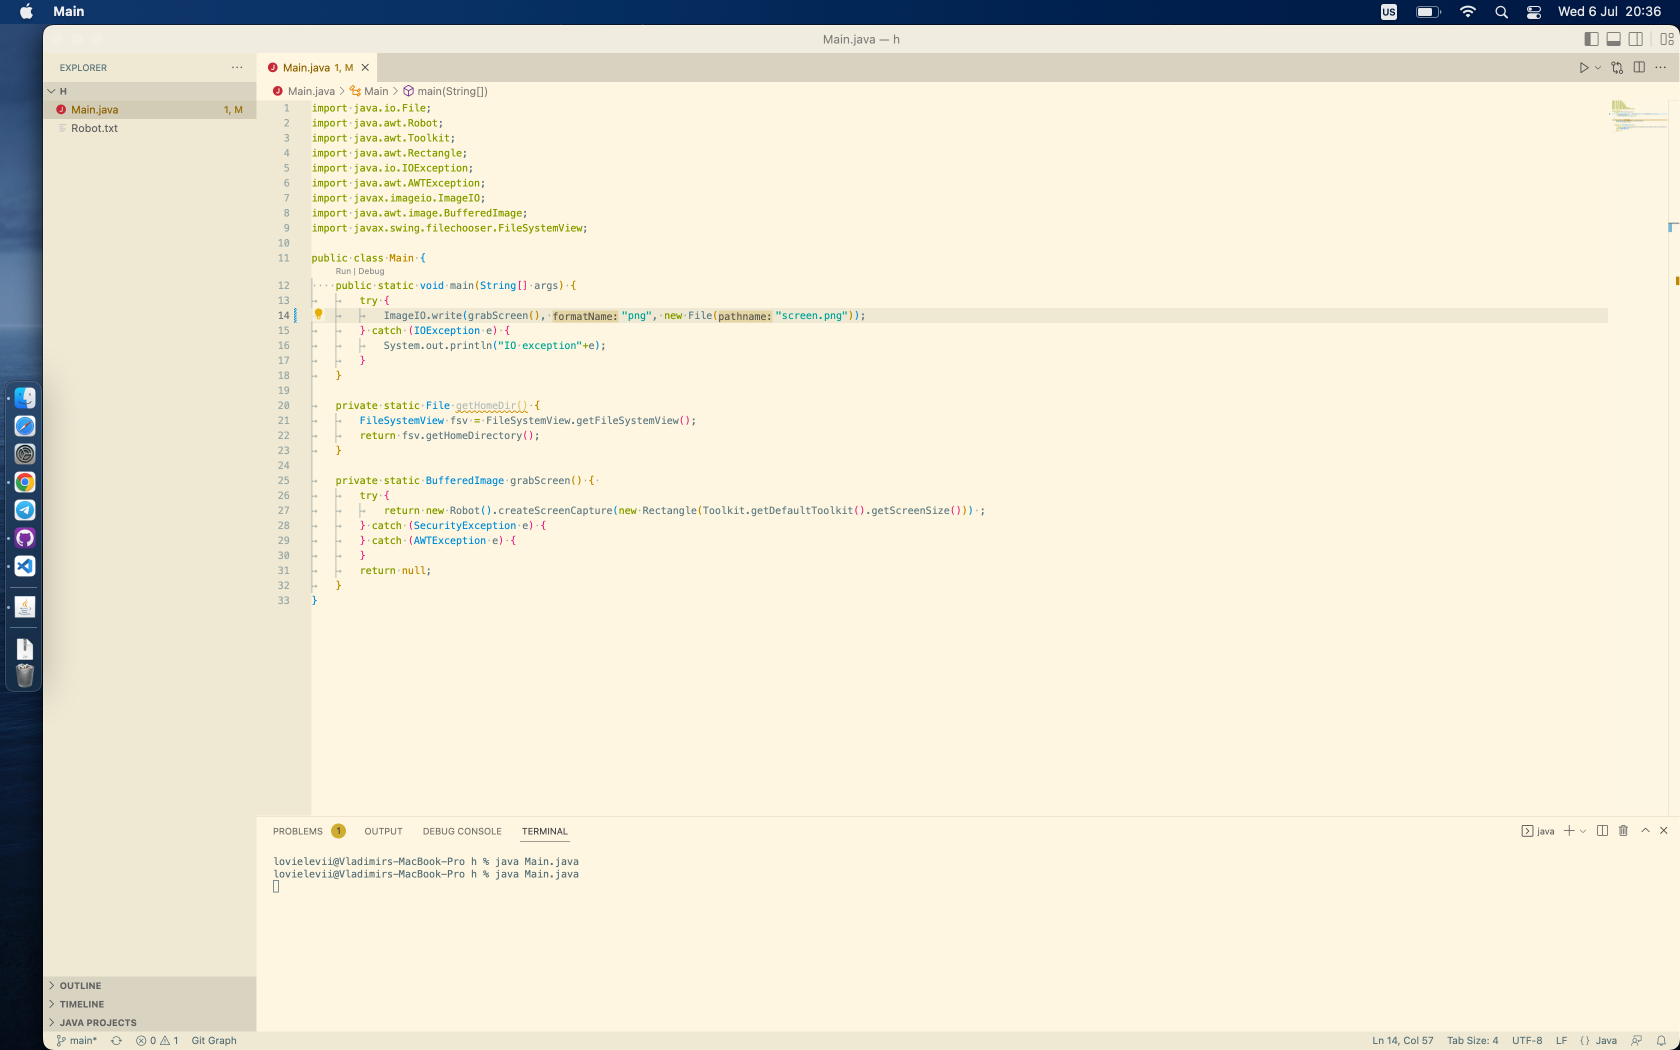
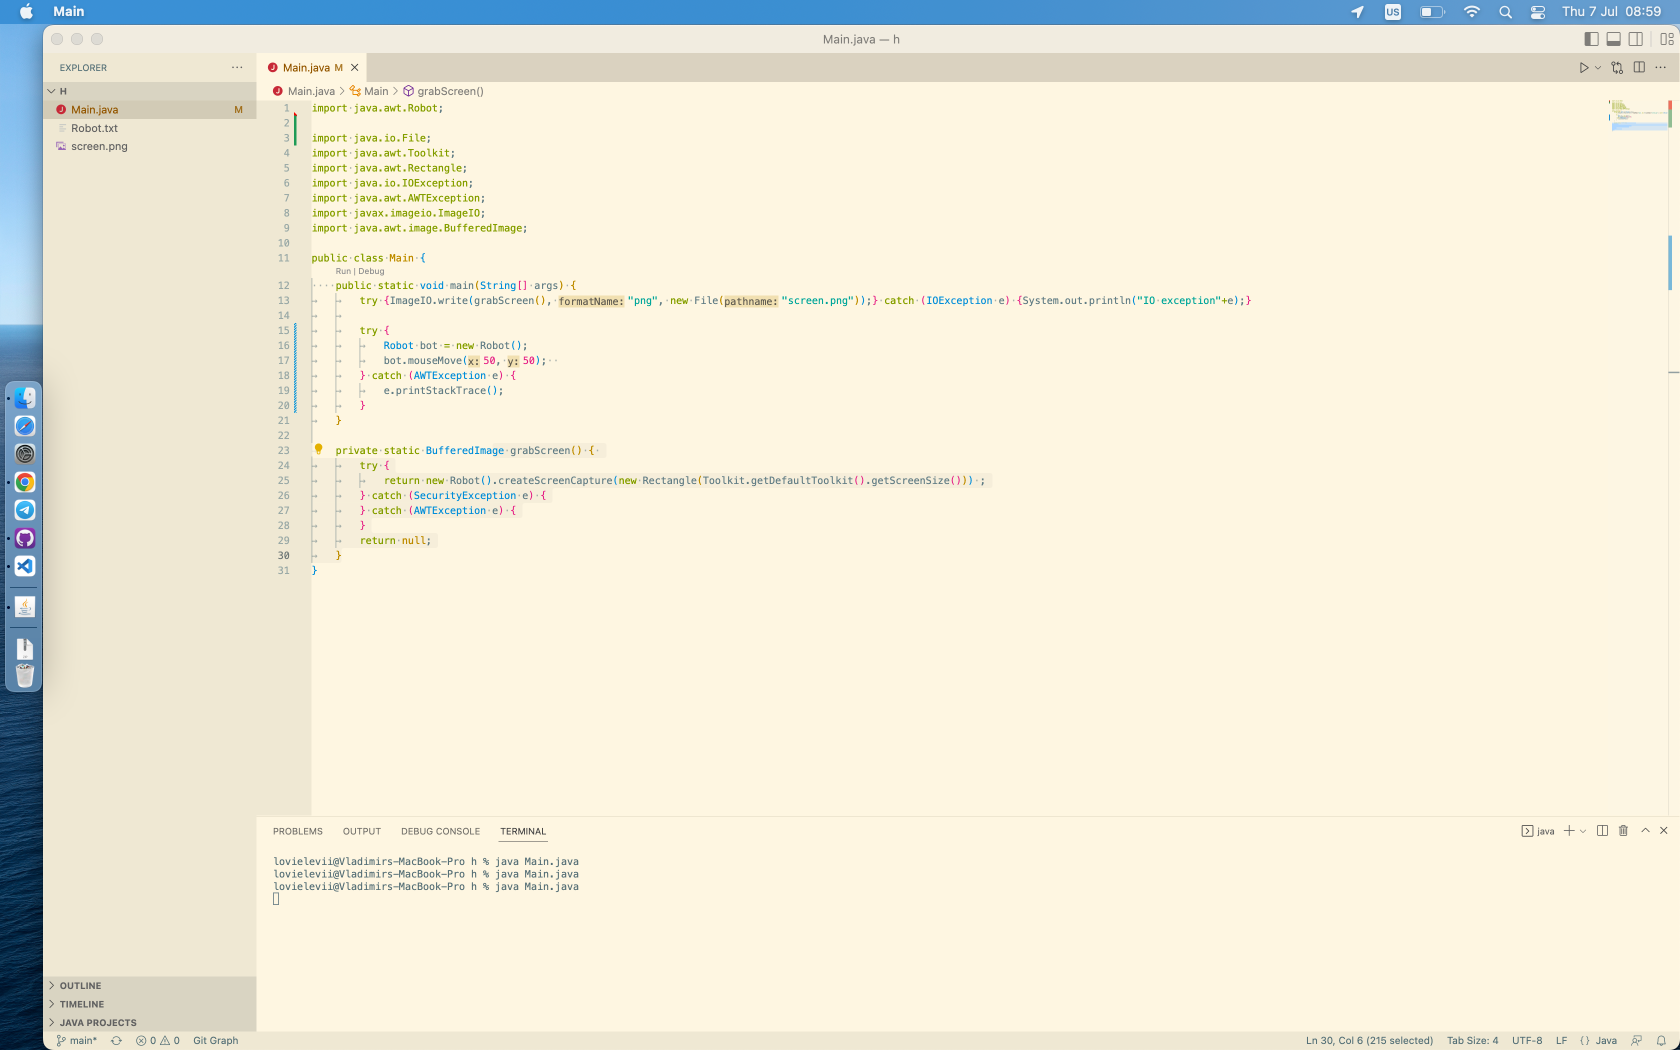
add

diff --git a/Main.java b/Main.java
@@ -1,5 +1,6 @@
-import java.io.File;
 import java.awt.Robot;
+
+import java.io.File;
 import java.awt.Toolkit;
 import java.awt.Rectangle;
 import java.io.IOException;
@@ -11,8 +12,12 @@ public class Main {
     public static void main(String[] args) {
 		try {ImageIO.write(grabScreen(), "png", new File("screen.png"));} catch (IOException e) {System.out.println("IO exception"+e);}
 		
-		Robot myRobot = new Robot();
-		myRobot.mouseMove(10,660);
+		try {
+			Robot bot = new Robot();
+			bot.mouseMove(50, 50);  
+		} catch (AWTException e) {
+			e.printStackTrace();
+		}
 	}
 
 	private static BufferedImage grabScreen() { 
